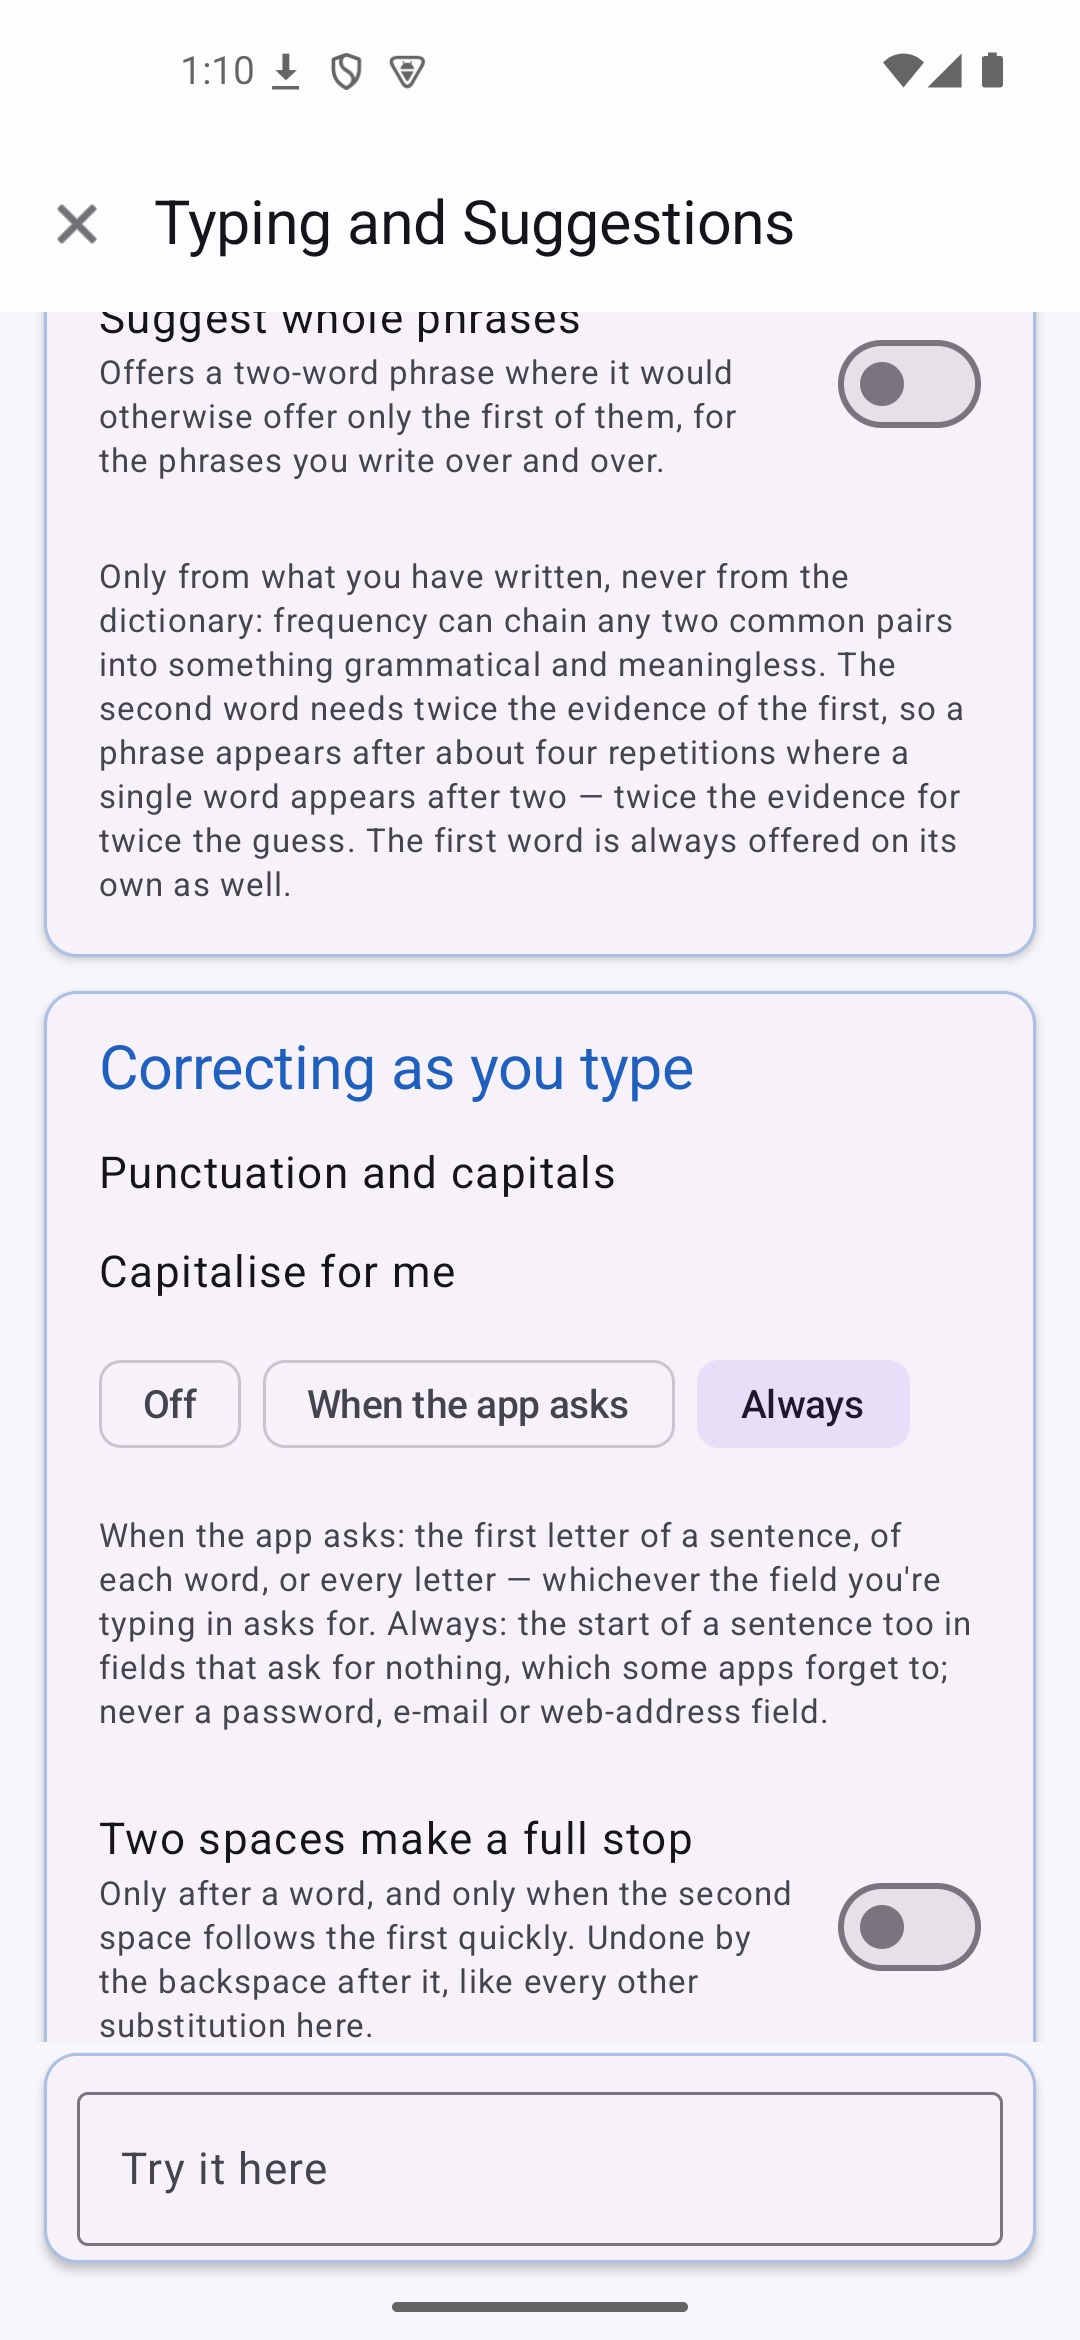
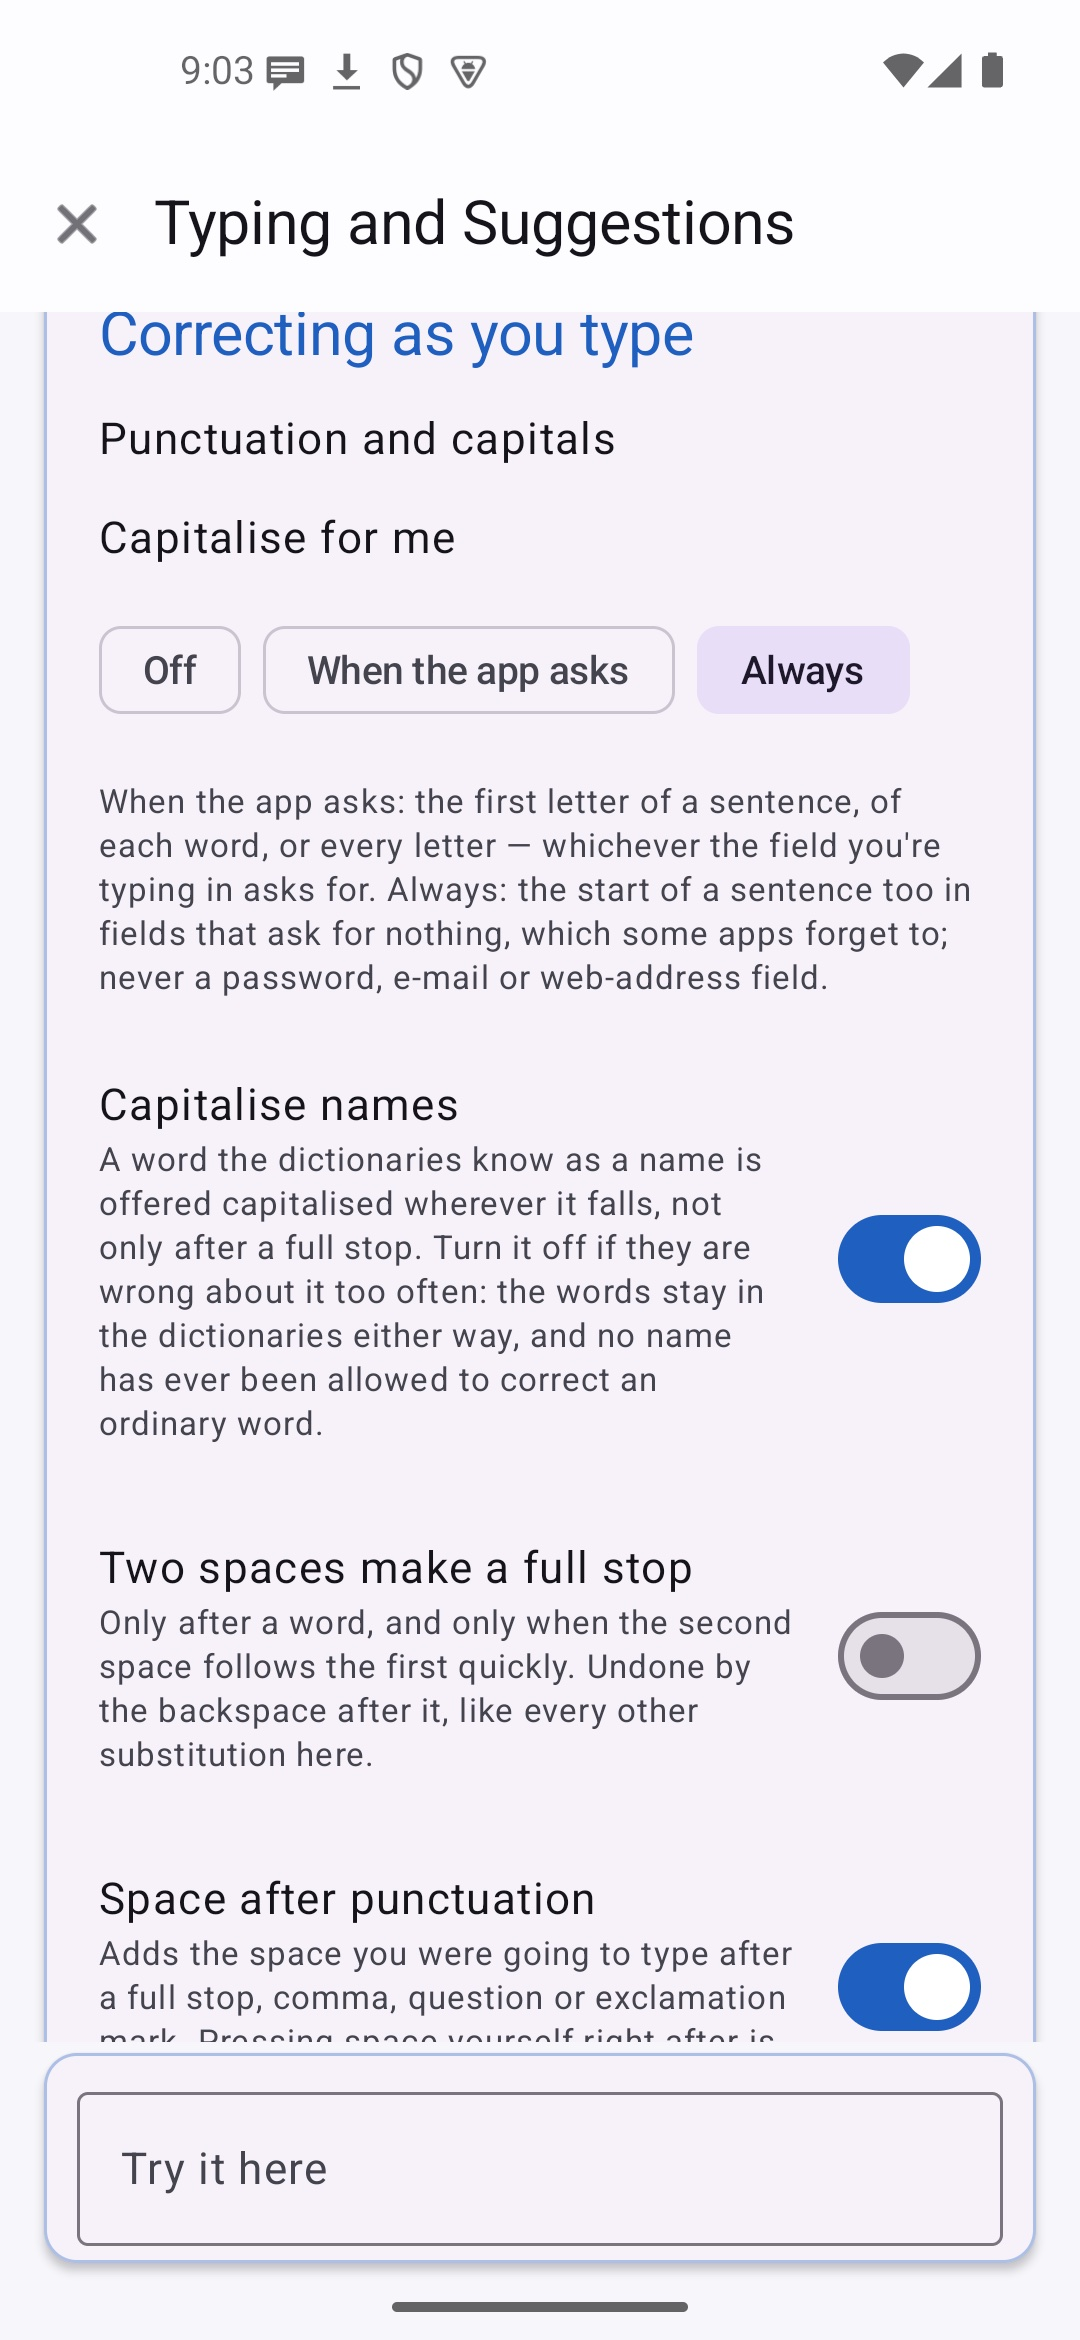
docs: screenshots retaken, including two that documented things that are gone
The quick-actions shot was the one that mattered. It is published in both
stores and in the README, and it showed an "Outline each button" switch
that no longer exists, under a subtitle saying the outline is separate
from the theme's key outlines -- the opposite of what it does now. Its
preview also showed the old rectangular buttons rather than the bookmark
tabs.

The Typing screenshot was missing both switches added since it was taken,
and both fall inside that same frame: Block offensive words after the
phrases note, and Capitalise names between the capitals note and the
double-space one.

Home, Theme, Languages, Layout & keys, Particle effects, its layers and
the Personal dictionary are retaken from the same build for consistency.
The core and plus sets carry the same files under their own numbering, so
each retake replaced two.

The Layout & keys caption promised a vibration strength that sits below
the fold; it now says what the picture shows.

Not retaken: the two that need a hand on the glass rather than a script
-- the ring around a paused swipe, and the strip with a held key's popup.
Those are still from 09-18 and still accurate.

diff --git a/README.md b/README.md
@@ -130,7 +130,7 @@ directly from [GitHub Releases](https://github.com/razvan-eduard/borderkeys/rele
   settings too.
 
 <p align="center">
-  <img src="fastlane/com.borderkeys/metadata/android/en-US/images/phoneScreenshots/9_layout_keys.jpg" alt="Layout & keys: the popup switch and the vibration strength" width="30%">
+  <img src="fastlane/com.borderkeys/metadata/android/en-US/images/phoneScreenshots/9_layout_keys.jpg" alt="Layout & keys: the number row, the accents and the key popup" width="30%">
 </p>
 
 - **Settings that stay out of the way.** Every card leads with what changes how typing feels;
